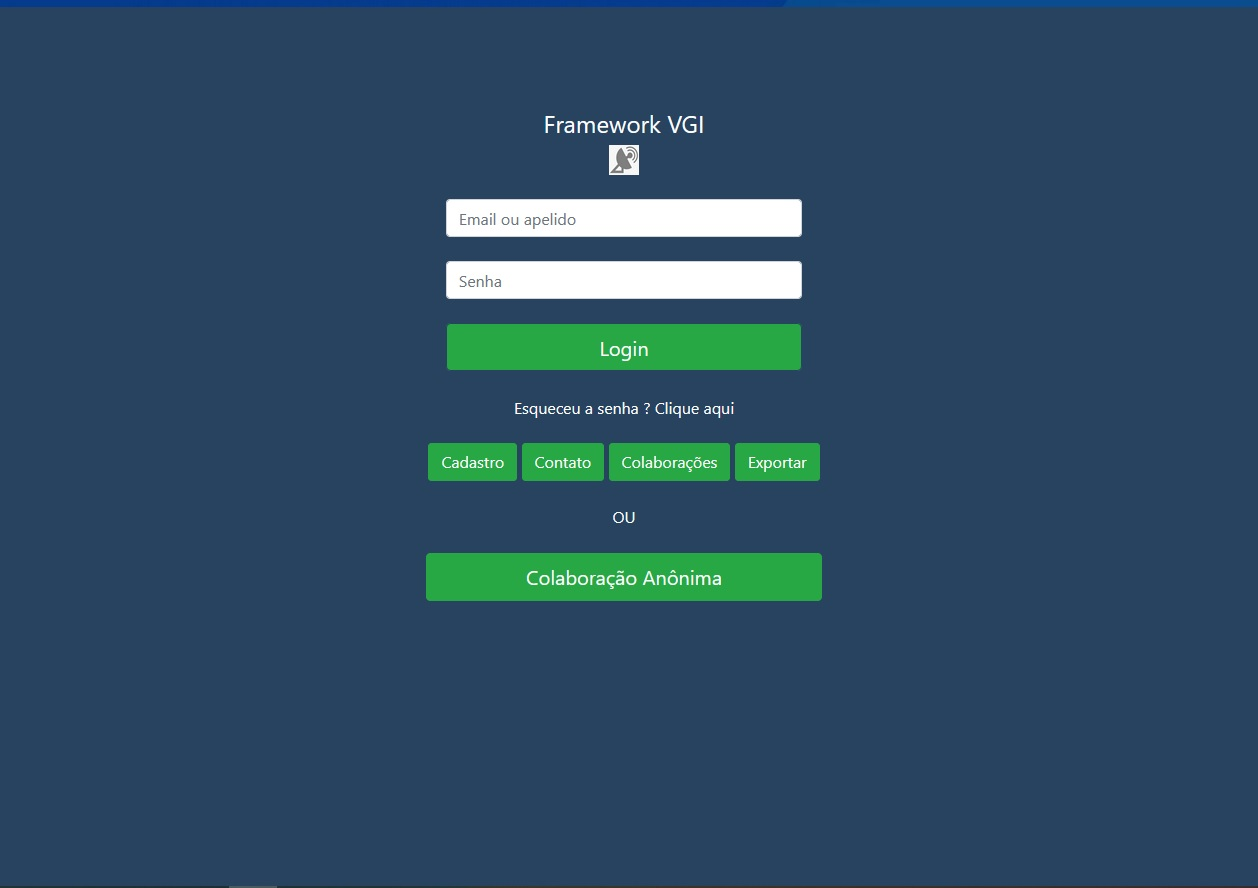
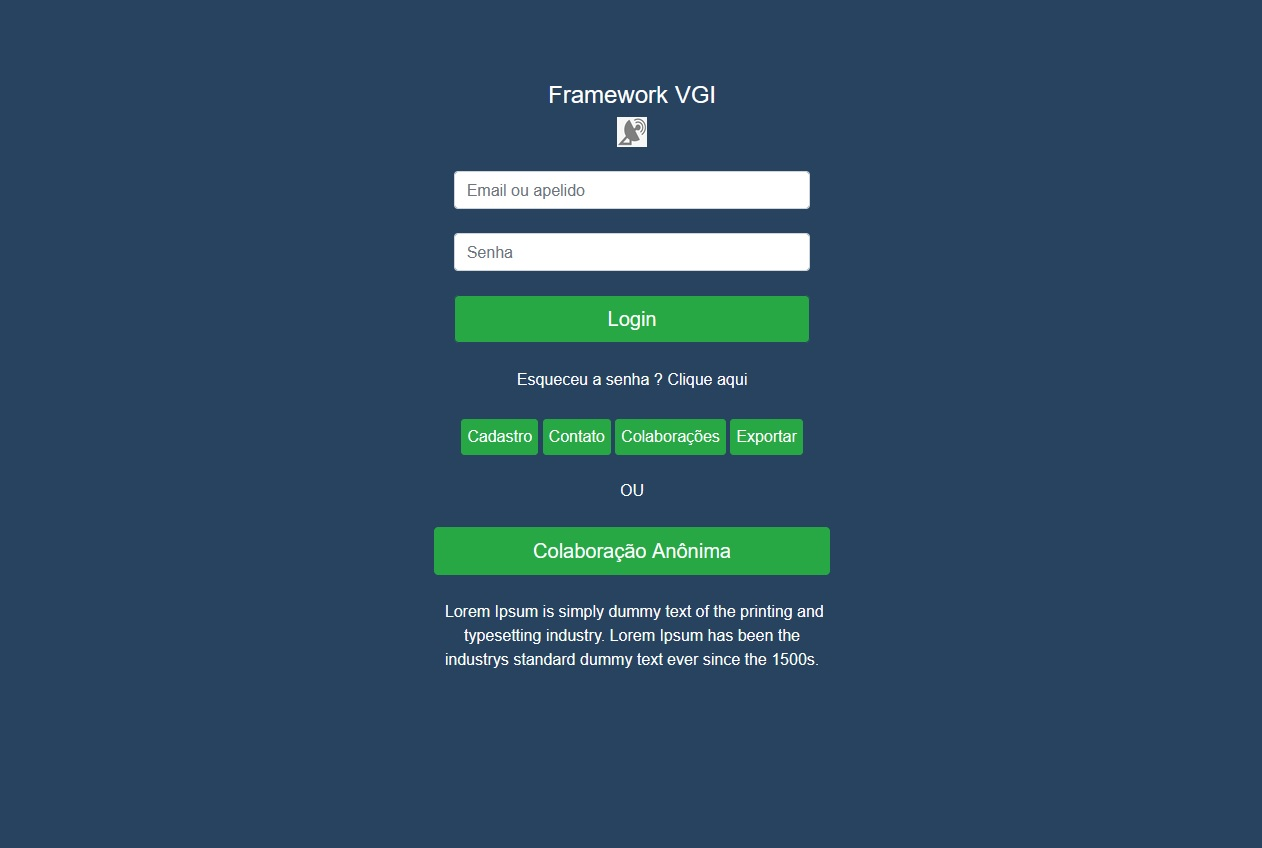
README modificado

diff --git a/src/componentes/painel/ConfiguracaoInicial.vue b/src/componentes/painel/ConfiguracaoInicial.vue
@@ -68,8 +68,6 @@
 
 	        });
 
-	        console.log(this.latitude);
-
 		    //Agrupando camadas wms
 	        var baseMaps = { 
 	        	"OpenStreetMap": osm.addTo(this.mapa),
@@ -86,6 +84,7 @@
 		methods:{
 			salvarConf(){
 			 axios.post('http://localhost:3000/setConfInicial', { nomeSistema: this.nomeSistema, latitude: this.latitude, longitude: this.longitude, zoom: this.zoom, descricao: this.descricao }).then((response) => {
+			 	console.log(response);
 				if(response.data.length == 0){
                     this.$router.push('/root');
                     alert("Sistema configurado com sucesso");

diff --git a/src/componentes/Home.vue b/src/componentes/Home.vue
@@ -26,9 +26,12 @@
 					<br>
 					<button class="btn btn-success btn-lg btn-block" type="submit" id="anonimo" @click="anonimo"><i class="fa fa-sign-in" aria-hidden="true"></i>Colaboração Anônima</button>
 				</div>
+				<br>
+				<div id="descricao"><center> &nbsp{{ this.descricao }} </center></div>
 			</div>
 			<br>
-			<div id="descricao" align="justify"> &nbsp{{ this.descricao }} </div>
+			<br>
+			
 		</div>
 	</div>
 </template>
@@ -109,7 +112,7 @@
 #menu{
 	margin-top: 2%;
 }
-#ou{
+#ou, #descricao{
 	color: #FFFFFF;
 }
 body{

diff --git a/README.md b/README.md
@@ -26,11 +26,21 @@
 <br>-Visualização das colaborações já realizadas e aprovadas
 <br>-Exportação das colaborações nos formatos GeoJSON e CSV
 <br>-Possibilidade de realizar a colaboração de forma anônima
-<h2>Tipos de usuários:</h2>
+
+<h2>Tipos de usuários e funcionalidades:</h2>
 -Root (Super Usuário)
-<br>-Administrador
-<br>-Anônimo
-<br>-Colaborador
+<br>
+<img src="apresentação-do-sistema/imagens/root.jpg" width="700" height="500">
+<br><br>-Administrador
+<br>
+<img src="apresentação-do-sistema/imagens/admin.jpg" width="700" height="500">
+<br><br>-Anônimo
+<br>
+<img src="apresentação-do-sistema/imagens/anonimo.jpg" width="700" height="500">
+<br><br>-Colaborador
+<br>
+<img src="apresentação-do-sistema/imagens/colaborador.jpg" width="700" height="500">
+
 <h2>Rotas criadas:</h2>
 -/home:
 <br>-/cadastroNovoUsuario:
@@ -52,6 +62,7 @@
 <br>-/setAdministradores:
 <br>-/getColaboradores:
 <br>-/apagarContato: Atualiza o status de um contato recebido como "publicado = não", mantendo assim ele ainda salvo no banco de dados como histórico para o sistema.
+
 <h2>Como usar:</h2>
 <p>Basta clonar o repositório do projeto em seu computador. Após isso, é necessário criar o banco de dados PostgreSQL, executando o script da pasta "banco-de-dados" e definir os parâmetros de conexão no arquivo "server/app.js".</p>
 
